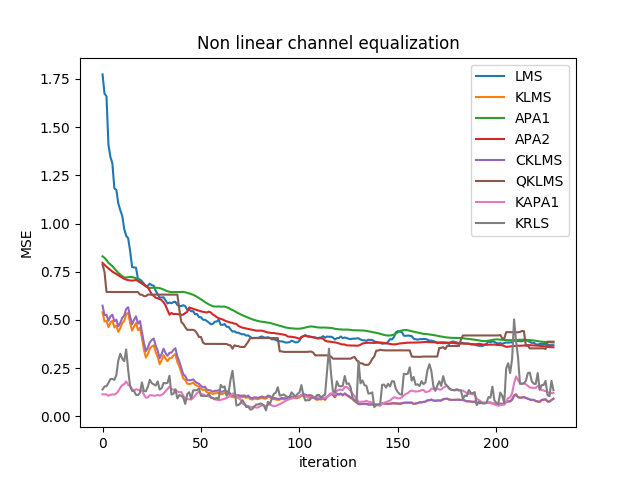
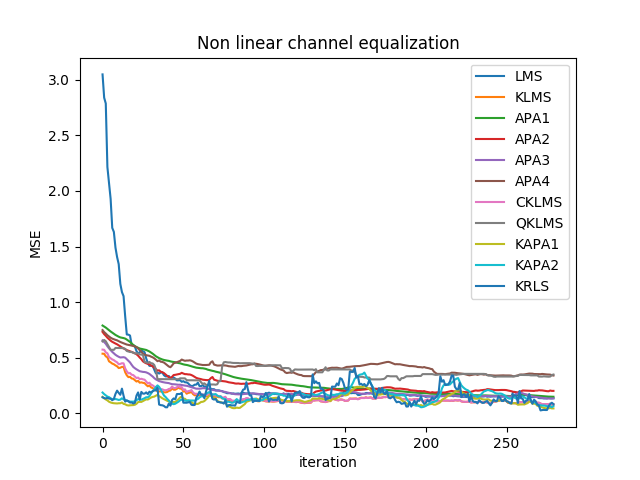
add apa 3 & 4

diff --git a/filters.py b/filters.py
@@ -363,6 +363,78 @@ class APA2:
         return 'APA2'
 
 
+class APA3:
+    def __init__(self, u, d, K, eta, lambd):
+        self.U = np.array([u]).T
+        self.D = np.array([d])
+        self.w = np.zeros(len(u))  # initial guess
+        self.K = K
+        self.L = len(u)
+        self.eta = eta
+        self.lambd = lambd
+
+    def predict(self, new_input):
+        return self.w.T.dot(new_input)
+
+    def update(self, new_input, desired_output):
+        tmp = min(len(self.U), self.K)
+        U = np.zeros((self.L, tmp + 1))
+        D = np.zeros(tmp + 1)
+
+        U[:, :-1] = self.U[:, -tmp:]
+        U[:, -1] = new_input.T
+        D[: -1] = self.D[-tmp:]
+        D[-1] = desired_output
+
+        y = U.T.dot(self.w)
+        e = D - y
+
+        self.w = (1 - self.eta * self.lambd) * self.w + self.eta * U.dot(e)
+        self.U = U
+        self.D = D
+
+    def name(self):
+        return 'APA3'
+
+
+class APA4:
+    def __init__(self, u, d, K, eta, eps=1e-15):
+        self.U = np.array([u]).T
+        self.D = np.array([d])
+        self.w = np.zeros(len(u))  # initial guess
+        self.K = K
+        self.L = len(u)
+
+        self.eps = eps
+        self.eta = eta
+
+    def predict(self, new_input):
+        return self.w.T.dot(new_input)
+
+    def update(self, new_input, desired_output):
+        tmp = min(len(self.U), self.K)
+        U = np.zeros((self.L, tmp + 1))
+        D = np.zeros(tmp + 1)
+
+        U[:, :-1] = self.U[:, -tmp:]
+        U[:, -1] = new_input.T
+        D[: -1] = self.D[-tmp:]
+        D[-1] = desired_output
+
+        y = U.T.dot(self.w)
+        e = D - y
+
+        t = U.shape[1]
+        norm_fact = np.linalg.pinv(self.eps * np.eye(t) + U.T.dot(U))
+
+        self.w = (1 - self.eta) * self.w + self.eta * U.dot(norm_fact).dot(e)
+        self.U = U
+        self.D = D
+
+    def name(self):
+        return 'APA4'
+
+
 def get_training_error(adap_filter, X, X_te, T, T_te, TD):
     N_tr = X.shape[0]
     N_te = X_te.shape[0]

diff --git a/channel_eq.py b/channel_eq.py
@@ -1,8 +1,8 @@
 import matplotlib.pyplot as plt
 import numpy
 
-from filters import (APA1, APA2, CKLMS, KAPA1, KAPA2, KLMS, KRLS, LMS, QKLMS,
-                     get_training_error)
+from filters import (APA1, APA2, APA3, APA4, CKLMS, KAPA1, KAPA2, KLMS, KRLS,
+                     LMS, QKLMS, get_training_error)
 
 
 def gen_test_data():
@@ -25,8 +25,8 @@ def gen_test_data():
     D = 2
 
     # dataset size
-    N_tr = 250
-    N_te = 10
+    N_tr = 300
+    N_te = 20
 
     # train data
     X = numpy.zeros((N_tr, TD))
@@ -67,10 +67,12 @@ if __name__ == '__main__':
 
     X, X_te, T, T_te, TD = gen_test_data()
     filters = [
-        LMS(TD, 0.01),
+        # LMS(TD, 0.01),
         KLMS(TD, X[0], T[0], 0.2, 2.25),
         APA1(X[0], T[0], 10, 0.001),
         APA2(X[0], T[0], 10, 0.01),
+        APA3(X[0], T[0], 10, 0.002, 0.1),
+        APA4(X[0], T[0], 10, 0.01),
         CKLMS(X[0], T[0], 0.2, 2.25, 2),
         QKLMS(TD, X[0], T[0], 0.2, 0.225, 2.25),
         KAPA1(X[0], T[0], 10, 0.2, 2.25),
@@ -85,5 +87,5 @@ if __name__ == '__main__':
     plt.ylabel('MSE')
     plt.xlabel('iteration')
     plt.title('Non linear channel equalization')
-    # plt.savefig('./compare1.png')
+    # plt.savefig('./compare2.png')
     plt.show()
